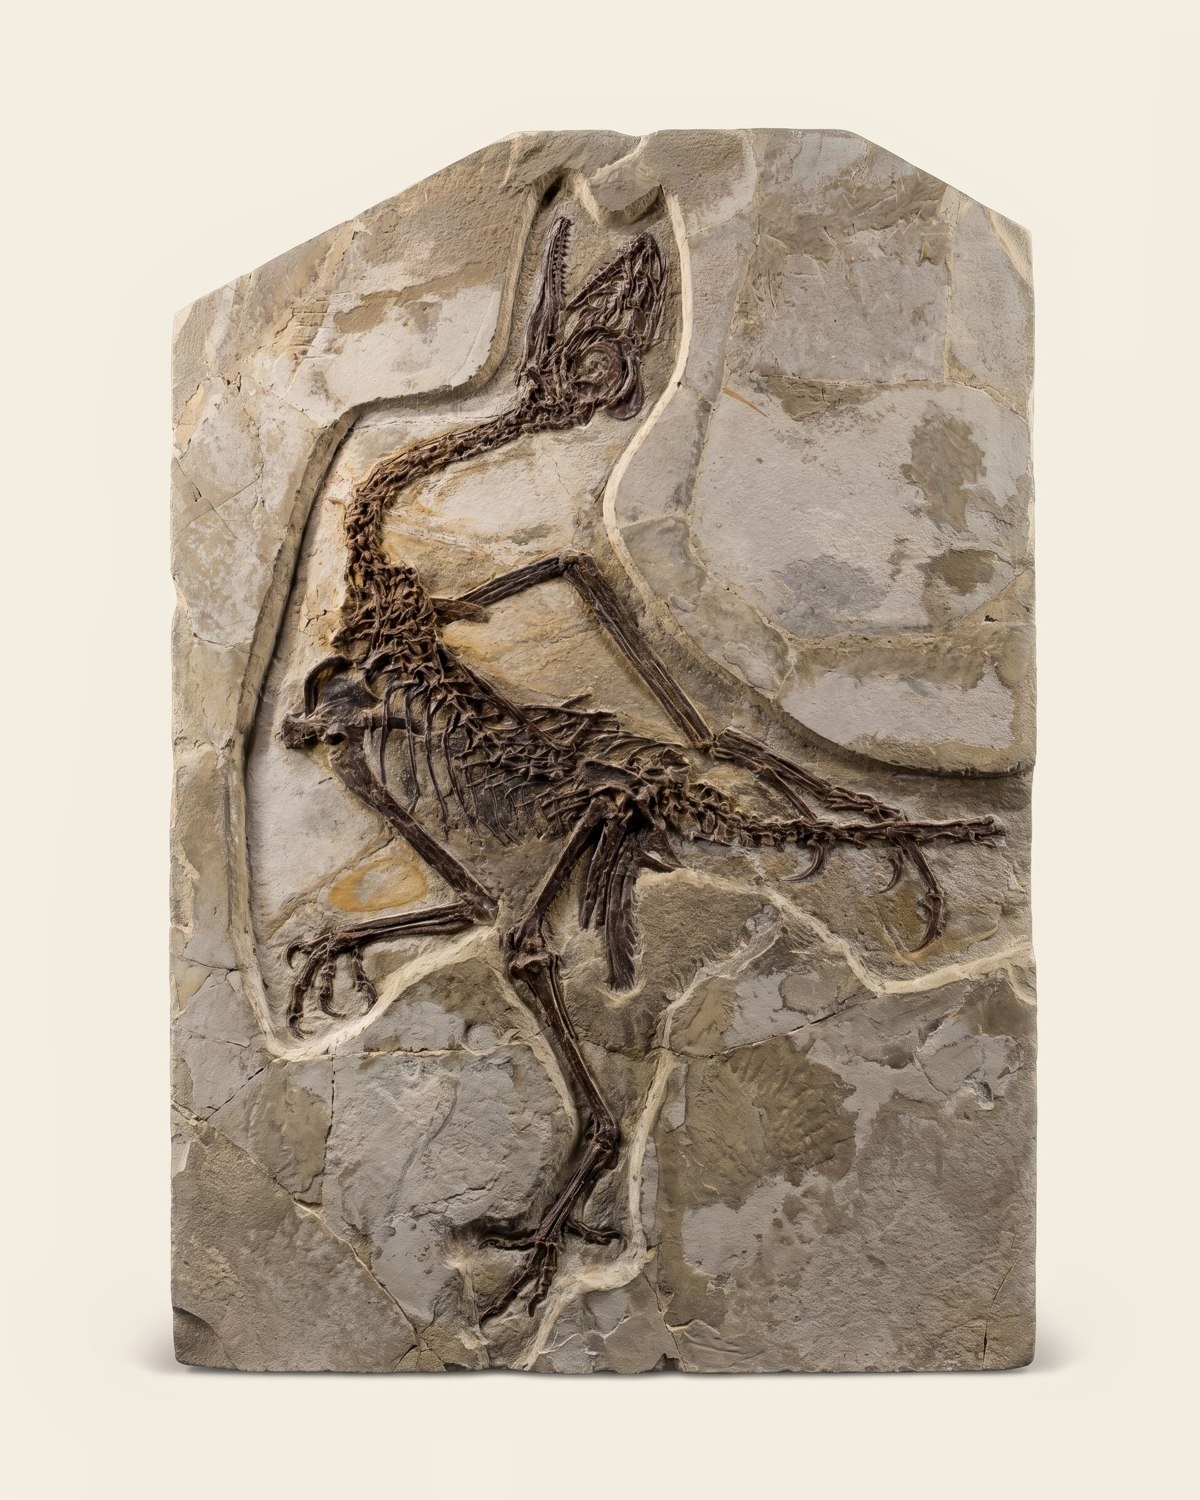
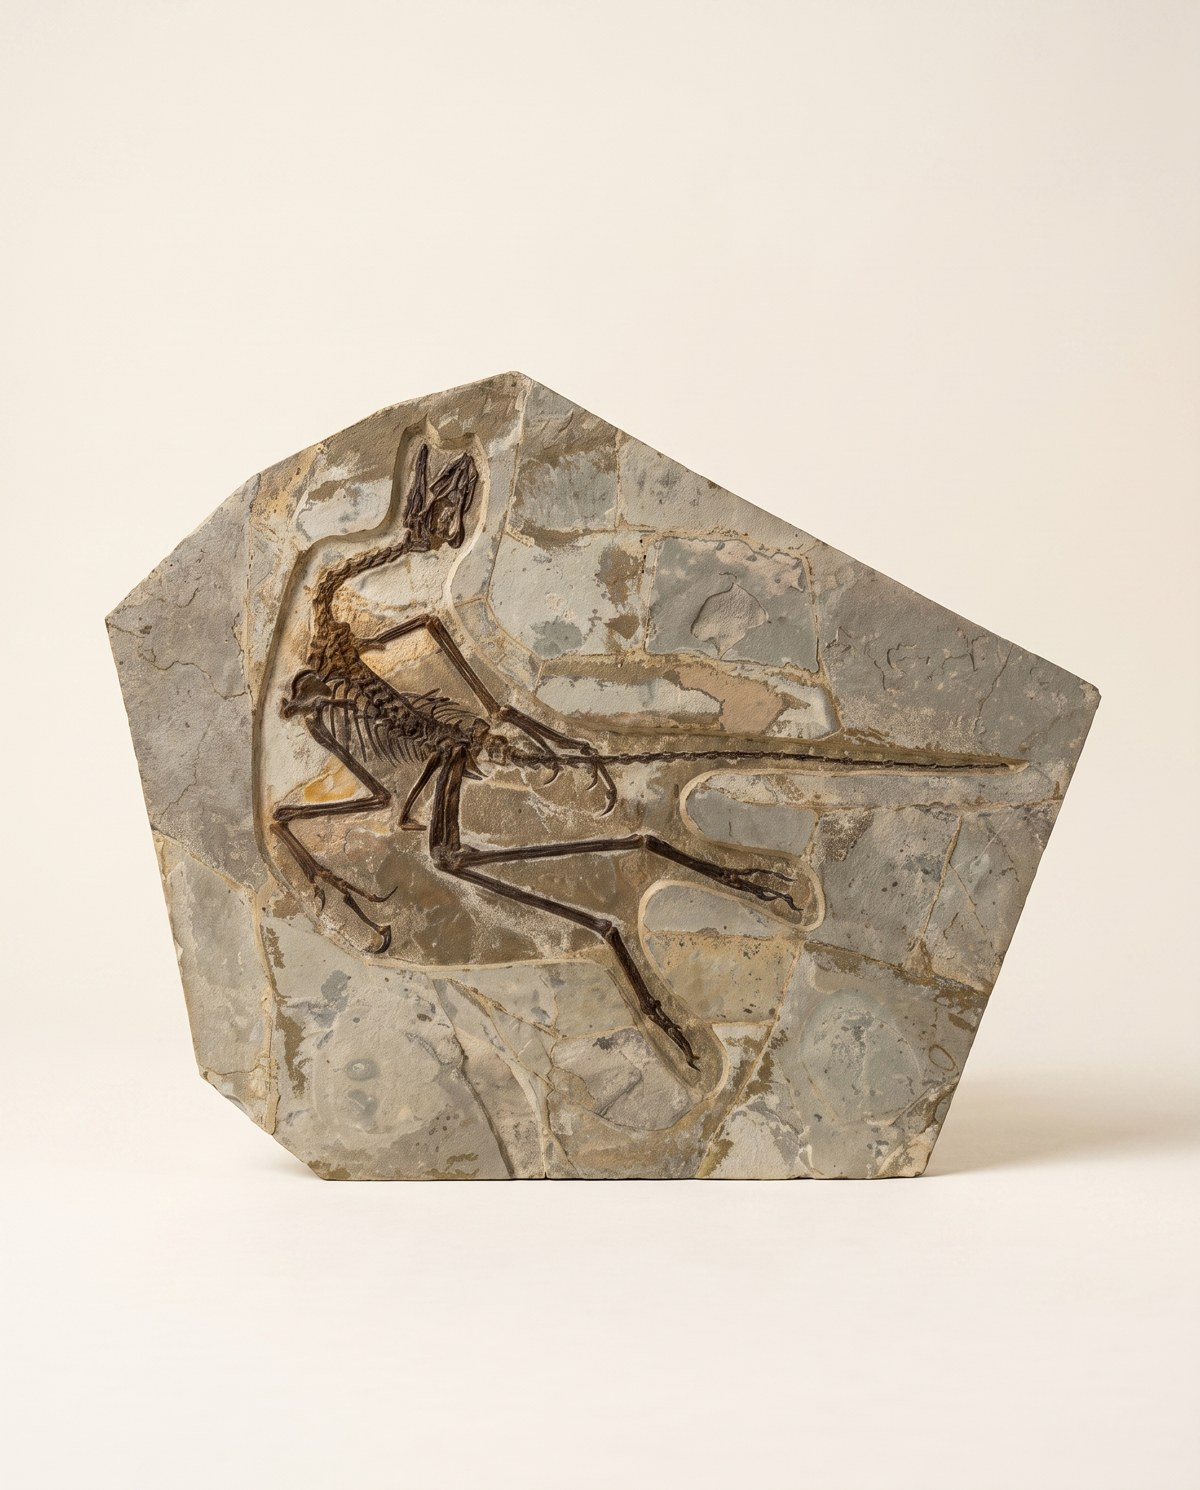
Каталог: из 14 морских лилий видимы три (веер, поплавки, пара); канон анхиорниса переснят — плита целиком

diff --git a/shared/catalog.js b/shared/catalog.js
@@ -284,6 +284,7 @@ window.RELICTUM_CATALOG = [
   },
   {
     "id": "R–0232",
+    "hidden": true,
     "world": "vita",
     "worldLabel": "Жизнь",
     "category": "Морские лилии",
@@ -412,6 +413,7 @@ window.RELICTUM_CATALOG = [
   },
   {
     "id": "R–0233",
+    "hidden": true,
     "world": "vita",
     "worldLabel": "Жизнь",
     "category": "Морские лилии",
@@ -540,6 +542,7 @@ window.RELICTUM_CATALOG = [
   },
   {
     "id": "R–0234",
+    "hidden": true,
     "world": "vita",
     "worldLabel": "Жизнь",
     "category": "Морские лилии",
@@ -644,6 +647,7 @@ window.RELICTUM_CATALOG = [
   },
   {
     "id": "R–0235",
+    "hidden": true,
     "world": "vita",
     "worldLabel": "Жизнь",
     "category": "Морские лилии",
@@ -1007,6 +1011,7 @@ window.RELICTUM_CATALOG = [
   },
   {
     "id": "R–0238",
+    "hidden": true,
     "world": "vita",
     "worldLabel": "Жизнь",
     "category": "Морские лилии",
@@ -1136,6 +1141,7 @@ window.RELICTUM_CATALOG = [
   },
   {
     "id": "R–0239",
+    "hidden": true,
     "world": "vita",
     "worldLabel": "Жизнь",
     "category": "Морские лилии",
@@ -1267,6 +1273,7 @@ window.RELICTUM_CATALOG = [
   },
   {
     "id": "R–0240",
+    "hidden": true,
     "world": "vita",
     "worldLabel": "Жизнь",
     "category": "Морские лилии",
@@ -1422,6 +1429,7 @@ window.RELICTUM_CATALOG = [
   },
   {
     "id": "R–0241",
+    "hidden": true,
     "world": "vita",
     "worldLabel": "Жизнь",
     "category": "Морские лилии",
@@ -1588,6 +1596,7 @@ window.RELICTUM_CATALOG = [
   },
   {
     "id": "R–0242",
+    "hidden": true,
     "world": "vita",
     "worldLabel": "Жизнь",
     "category": "Морские лилии",
@@ -1774,6 +1783,7 @@ window.RELICTUM_CATALOG = [
   },
   {
     "id": "R–0243",
+    "hidden": true,
     "world": "vita",
     "worldLabel": "Жизнь",
     "category": "Морские лилии",
@@ -2045,6 +2055,7 @@ window.RELICTUM_CATALOG = [
   },
   {
     "id": "R–0244",
+    "hidden": true,
     "world": "vita",
     "worldLabel": "Жизнь",
     "category": "Морские лилии",
